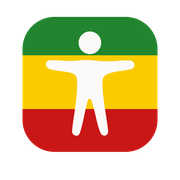
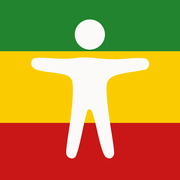
new images

diff --git a/index.html b/index.html
@@ -14,6 +14,10 @@
     <meta name="msapplication-tap-highlight" content="no" />
 
     <link rel="shortcut icon" type="image/png" href="/favicon.png" />
+    <link rel="apple-touch-icon" href="/apple-touch-icon.png" />
+    <link rel="apple-touch-icon" sizes="152x152" href="/apple-touch-icon-152x152.png" />
+    <link rel="apple-touch-icon" sizes="167x167" href="/apple-touch-icon-167x167.png" />
+    <link rel="apple-touch-icon" sizes="180x180" href="/apple-touch-icon-180x180.png" />
 
     <!-- add to homescreen for ios -->
     <meta name="mobile-web-app-capable" content="yes" />

diff --git a/icon-drafts/zdt-pwa/generate_icons.py b/icon-drafts/zdt-pwa/generate_icons.py
@@ -20,6 +20,7 @@ SOURCE_BAND_RED_TOP = 379
 
 STANDARD_RECT = {"x": 128, "y": 96, "size": 768, "radius": 182}
 MASKABLE_RECT = {"x": 64, "y": 64, "size": 896, "radius": 212}
+APPLE_RECT = {"x": 0, "y": 0, "size": 1024, "radius": 0}
 
 
 def component_bbox(points):
@@ -305,19 +306,25 @@ def main():
     source_geometry = extract_geometry()
     standard_geometry = icon_geometry(source_geometry, STANDARD_RECT)
     maskable_geometry = icon_geometry(source_geometry, MASKABLE_RECT)
+    apple_geometry = icon_geometry(source_geometry, APPLE_RECT)
 
     standard = render_icon(standard_geometry)
     maskable = render_icon(maskable_geometry)
+    apple = render_icon(apple_geometry)
 
     write_master_svg(standard_geometry)
 
     standard.save(OUT_DIR / "preview-1024.png")
     maskable.save(OUT_DIR / "maskable-preview-1024.png")
+    apple.save(OUT_DIR / "apple-preview-1024.png")
 
     export_png(standard, "pwa-192x192.png", 192)
     export_png(standard, "pwa-512x512.png", 512)
     export_png(maskable, "maskable-512x512.png", 512)
-    export_png(standard, "apple-touch-icon.png", 180)
+    export_png(apple, "apple-touch-icon.png", 180)
+    export_png(apple, "apple-touch-icon-152x152.png", 152)
+    export_png(apple, "apple-touch-icon-167x167.png", 167)
+    export_png(apple, "apple-touch-icon-180x180.png", 180)
     export_png(standard, "favicon.png", 64)
 
     standard.save(
